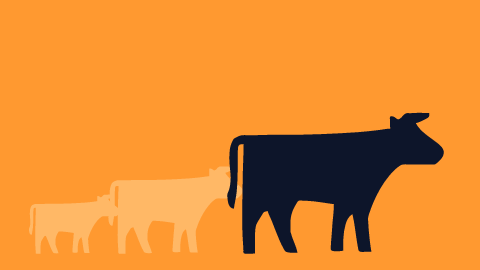
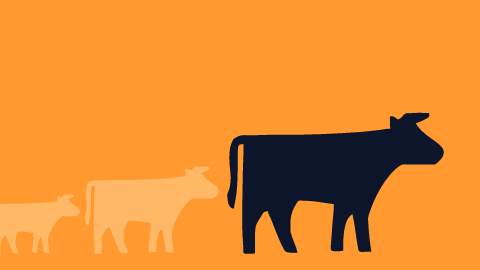
the cow-butt problem

Changed region(s): [[0.0, 0.5926, 0.5, 0.9481]]

diff --git a/src/lib/server/socialAssetImages.ts b/src/lib/server/socialAssetImages.ts
@@ -1,4 +1,9 @@
+import { mkdtempSync, readFileSync, writeFileSync } from 'node:fs';
+import { tmpdir } from 'node:os';
+import { join } from 'node:path';
+import { inflateSync } from 'node:zlib';
 import { Resvg } from '@resvg/resvg-js';
+import { event } from '../eventDetails.ts';
 import { cowPath, cowViewBox } from '../cow.ts';
 import {
 	assetFile,
@@ -11,18 +16,61 @@ import {
 } from '../socialAssets.ts';
 
 // Runs in Node at build time (and in the dev server), never in the deployed site. There is no
-// text in these images, so no fonts are needed: they are plain SVG, rendered straight to PNG.
+// words on the images except the event name and year, set in the header's font.
 
 // The theme's primary-500 and surface-950 (src/dddsw-theme.css) as hex.
 const orange = '#ff9930';
 const ink = '#0d152a';
 
+// The site header's name and year are set in Fredoka semibold. resvg can't read WOFF, so the
+// font is unwrapped to a plain TrueType file in memory.
+const fontFamily = 'Fredoka SemiBold';
+const fontFile = new URL(
+	'../../../node_modules/@fontsource/fredoka/files/fredoka-latin-600-normal.woff',
+	import.meta.url
+);
+
+/** Unwraps a WOFF 1.0 font into the TrueType/OpenType file it holds. */
+function woffToSfnt(woff: Buffer): Buffer {
+	const count = woff.readUInt16BE(12);
+	const tables = Array.from({ length: count }, (_, i) => {
+		const at = 44 + i * 20;
+		const offset = woff.readUInt32BE(at + 4);
+		const compLength = woff.readUInt32BE(at + 8);
+		const origLength = woff.readUInt32BE(at + 12);
+		const raw = woff.subarray(offset, offset + compLength);
+		return {
+			tag: woff.subarray(at, at + 4),
+			checksum: woff.readUInt32BE(at + 16),
+			data: compLength < origLength ? inflateSync(raw) : raw
+		};
+	});
+	const headerSize = 12 + count * 16;
+	const parts = [Buffer.alloc(headerSize)];
+	const header = parts[0];
+	woff.copy(header, 0, 4, 8); // the font flavour
+	header.writeUInt16BE(count, 4);
+	let offset = headerSize;
+	tables.forEach(({ tag, checksum, data }, i) => {
+		const entry = 12 + i * 16;
+		tag.copy(header, entry);
+		header.writeUInt32BE(checksum, entry + 4);
+		header.writeUInt32BE(offset, entry + 8);
+		header.writeUInt32BE(data.length, entry + 12);
+		const padded = Buffer.alloc((data.length + 3) & ~3);
+		data.copy(padded);
+		parts.push(padded);
+		offset += padded.length;
+	});
+	return Buffer.concat(parts);
+}
+
 const [, , cowWidth, cowHeight] = cowViewBox.split(' ').map(Number);
 
 /** The colours for each scheme: the background, the main cow, and the fainter cows behind it. */
-const colours: Record<Scheme, { background: string; cow: string; faint: string }> = {
-	orange: { background: orange, cow: ink, faint: '#ffb866' },
-	ink: { background: ink, cow: orange, faint: '#1d2a4d' }
+const colours: Record<Scheme, { background: string; cow: string; faint: string; year: string }> = {
+	orange: { background: orange, cow: ink, faint: '#ffb866', year: '#003e44' },
+	ink: { background: ink, cow: orange, faint: '#1d2a4d', year: '#58c3cf' }
 };
 
 /** A cow `width` wide, with its left edge at `x` and its feet on `baseline`. */
@@ -32,23 +80,41 @@ function cow(x: number, baseline: number, width: number, fill: string): string {
 	return `<path transform="translate(${x} ${y}) scale(${scale})" fill="${fill}" d="${cowPath}"/>`;
 }
 
-/** The main cow with a herd of fainter, smaller ones trailing off behind it to the left. */
+/** The main cow with a herd of fainter, smaller ones trailing off to the left, each in front of the larger one. */
 function herd(scheme: Scheme, right: number, baseline: number, mainWidth: number): string {
 	const { cow: main, faint } = colours[scheme];
 	const first = mainWidth * 0.62;
 	const second = mainWidth * 0.42;
 	const mainX = right - mainWidth;
-	const firstX = mainX - first * 0.7;
-	const secondX = firstX - second * 0.7;
+	// Each smaller cow overlaps the larger one beside it, standing in front of it.
+	const gap = 0.85;
+	const firstX = mainX - first * gap;
+	const secondX = firstX - second * gap;
 	return (
-		cow(secondX, baseline, second, faint) +
+		cow(mainX, baseline, mainWidth, main) +
 		cow(firstX, baseline, first, faint) +
-		cow(mainX, baseline, mainWidth, main)
+		cow(secondX, baseline, second, faint)
 	);
 }
 
 /** Each kind of image places its cows differently, so there's room for words on posts. */
-function layout({ kind, width, height }: SocialAsset, scheme: Scheme): string {
+function layout({ kind, width, height, wordmark }: SocialAsset, scheme: Scheme): string {
+	if (kind === 'avatar' && wordmark) {
+		// The cow with the name and year under it, as in the site header, the pair centred and well
+		// inside the circle crop.
+		const w = width * 0.56;
+		const fontSize = width * 0.12;
+		const capHeight = fontSize * 0.7;
+		const gap = width * 0.06;
+		const cowHeightPx = (w * cowHeight) / cowWidth;
+		const top = (height - (cowHeightPx + gap + capHeight)) / 2;
+		const { cow: main, year } = colours[scheme];
+		return (
+			cow((width - w) / 2, top + cowHeightPx, w, main) +
+			`<text x="${width / 2}" y="${top + cowHeightPx + gap + capHeight}" text-anchor="middle" font-family="${fontFamily}" font-weight="600" font-size="${fontSize}" letter-spacing="${-fontSize * 0.025}" fill="${main}">` +
+			`${event.shortName} <tspan fill="${year}">${event.year}</tspan></text>`
+		);
+	}
 	if (kind === 'avatar') {
 		// Well inside the circle that most sites crop a profile picture to.
 		const w = width * 0.74;
@@ -80,9 +146,29 @@ export function socialAssetSvg(asset: SocialAsset, scheme: Scheme): string {
 	);
 }
 
+let unwrappedFont: string | undefined;
+/** The font as a file on disk: resvg takes fontFiles, but its fontBuffers option breaks `fitTo`. */
+function fontPath(): string {
+	if (!unwrappedFont) {
+		const dir = mkdtempSync(join(tmpdir(), 'social-assets-'));
+		unwrappedFont = join(dir, 'fredoka-semibold.ttf');
+		writeFileSync(unwrappedFont, woffToSfnt(readFileSync(fontFile)));
+	}
+	return unwrappedFont;
+}
+
 export function renderSocialAsset(asset: SocialAsset, scheme: Scheme, width?: number): Buffer {
 	const fitTo = width ? { mode: 'width' as const, value: width } : undefined;
-	return new Resvg(socialAssetSvg(asset, scheme), { fitTo }).render().asPng();
+	return new Resvg(socialAssetSvg(asset, scheme), {
+		fitTo,
+		font: {
+			fontFiles: [fontPath()],
+			defaultFontFamily: fontFamily,
+			loadSystemFonts: false
+		}
+	})
+		.render()
+		.asPng();
 }
 
 /**

diff --git a/src/lib/socialAssets.ts b/src/lib/socialAssets.ts
@@ -17,6 +17,8 @@ export interface SocialAsset {
 	use: string;
 	width: number;
 	height: number;
+	/** Whether the event name and year, as in the site header, sit under the cow. */
+	wordmark?: boolean;
 }
 
 export const schemes: { id: Scheme; label: string }[] = [
@@ -32,6 +34,15 @@ export const socialAssets: SocialAsset[] = [
 		use: 'Bluesky, LinkedIn, Facebook and X. The cow stays clear of the circle crop.',
 		width: 1080,
 		height: 1080
+	},
+	{
+		id: 'profile-picture-name',
+		kind: 'avatar',
+		label: 'Profile picture with name',
+		use: 'The same, with the event name and year under the cow, as in the site header.',
+		width: 1080,
+		height: 1080,
+		wordmark: true
 	},
 	{
 		id: 'linkedin-banner',
